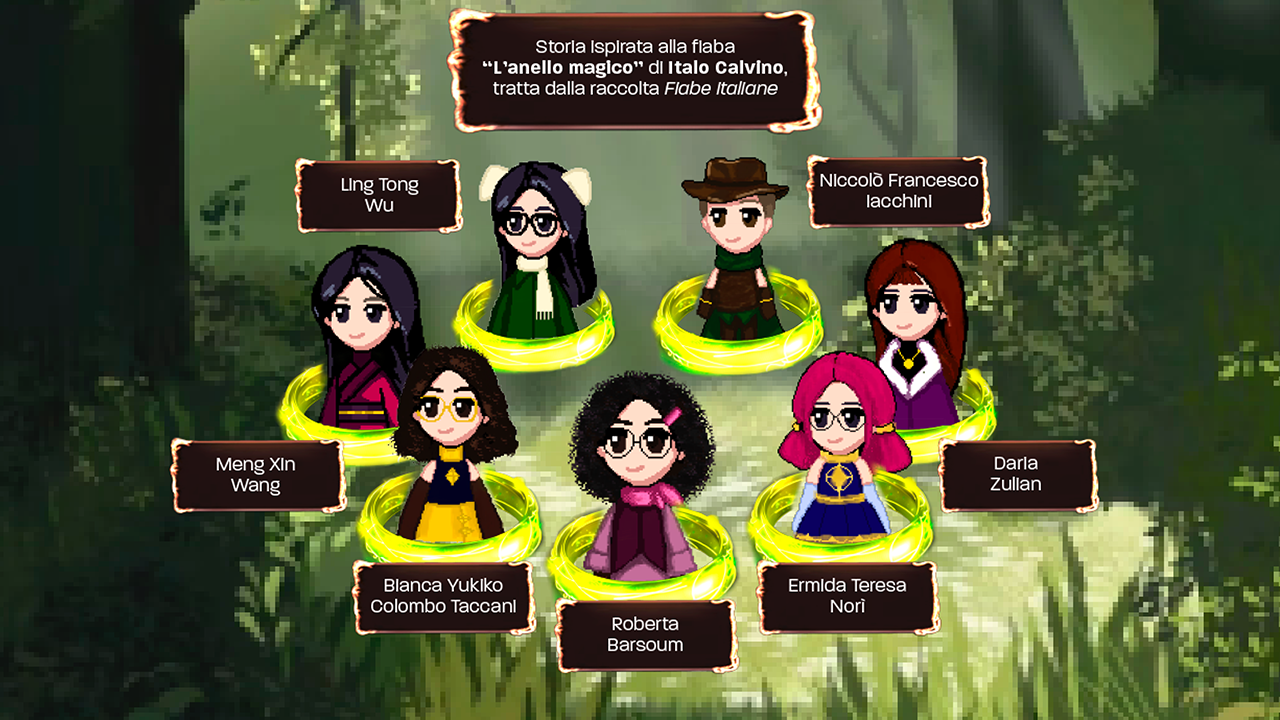
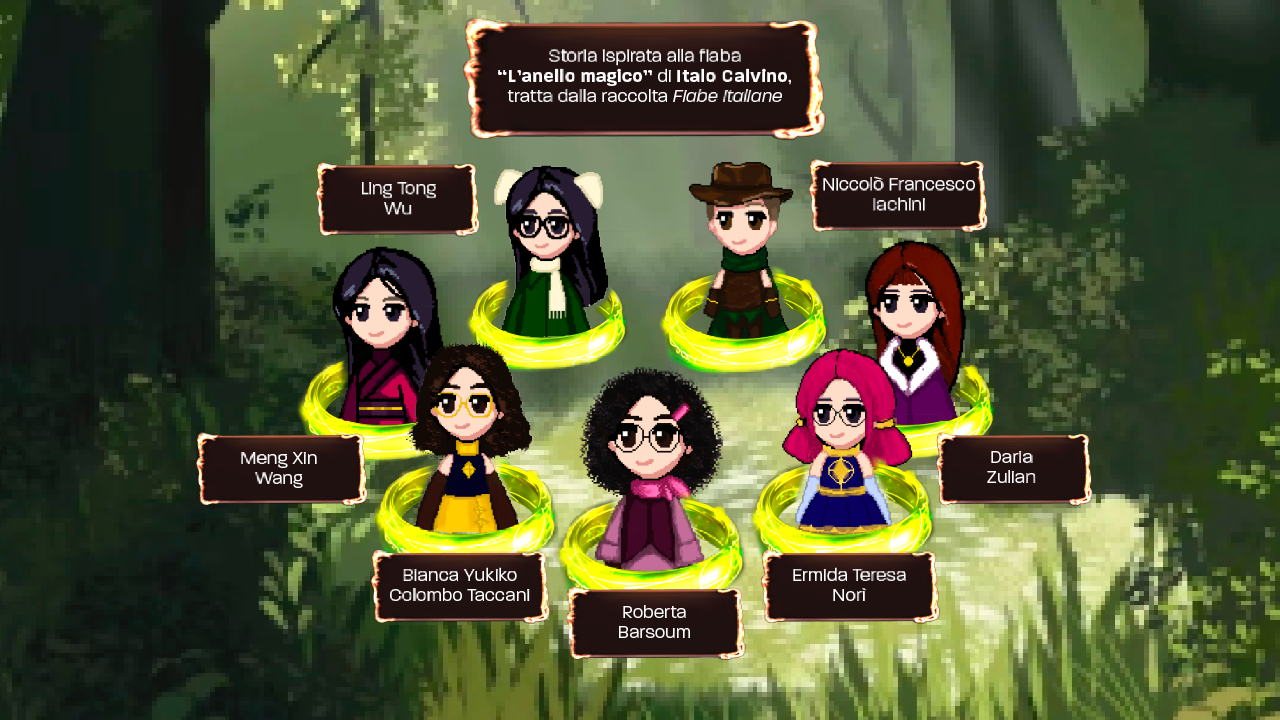
aggiunto cambiamento sfondo e dialogo topo

diff --git a/src/scenes/level2.js b/src/scenes/level2.js
@@ -1,3 +1,4 @@
+let img_background;
 let img_background_0;
 let img_background_1;
 let img_background_2;
@@ -12,6 +13,11 @@ let img_cartello_sx;
 let img_cartello_barra;
 let img_cartello_f;
 let img_topo;
+let img_background_corrotto_1;
+let img_background_corrotto_2;
+let img_background_corrotto_3;
+let img_dialogo;
+
 
 
 let floor;
@@ -28,6 +34,7 @@ let cartello_sx;
 let cartello_barra;
 let cartello_f;
 let topo;
+let ponte;
 
 let anello_1_done = false;
 let anello_2_done = false;
@@ -48,7 +55,7 @@ function preload (s) {
     preload_rocce(s);
     preload_gui (s);
 
-    img_background_0 = PP.assets.image.load(s, "assets/images/quarto_piano.png");
+    img_background = PP.assets.image.load(s, "assets/images/quarto_piano.png");
     img_background_1 = PP.assets.image.load(s, "assets/images/terzo_piano.png");
     img_background_2 = PP.assets.image.load(s, "assets/images/secondo_piano.png");
     img_background_3 = PP.assets.image.load(s, "assets/images/primo_piano.png");
@@ -60,10 +67,15 @@ function preload (s) {
     img_cartello_f = PP.assets.image.load(s, "assets/images/f.png");
     img_topo = PP.assets.image.load(s, "assets/images/topo.png");
 
+    img_background_corrotto_1 = PP.assets.image.load(s, "assets/images/terzopiano_corrotto.png");
+    img_background_corrotto_2 = PP.assets.image.load(s, "assets/images/secondopiano_corrotto.png");
+    img_background_corrotto_3 = PP.assets.image.load(s, "assets/images/primopiano_corrotto.png");
+
 
     img_player = PP.assets.sprite.load_spritesheet(s,"assets/images/protagonista_spritesheet.png", 58,108);
     img_bridge = PP.assets.image.load(s, "assets/images/bridge.png");
     img_castello = PP.assets.image.load(s, "assets/images/castello.png");
+    img_dialogo = PP.assets.image.load(s, "assets/images/dialogo.png");
     
 }
 
@@ -72,22 +84,32 @@ function create (s){
 damage_imm = false; //per resettare il flag di damage imm, ref gestione.
 
 //setup parallasse per sfondo
-    img_background_0 = PP.assets.tilesprite.add(s, img_background_0, -4000, 720, 15000, 850, 0, 1);
+    img_background_0 = PP.assets.tilesprite.add(s, img_background, -4000, 720, 15000, 850, 0, 1);
     img_background_1 = PP.assets.tilesprite.add(s, img_background_1, -4000, 720, 15000, 850, 0, 1); 
     img_background_2 = PP.assets.tilesprite.add(s, img_background_2, -4000, 800, 15000, 850, 0, 1); 
     img_background_3 = PP.assets.tilesprite.add(s, img_background_3, -4500, 900, 18000, 1500, 0, 1); 
+
+    let layer_bg_1 = PP.layers.create(s);
+    PP.layers.add_to_layer(layer_bg_1, img_background_3);
+    PP.layers.set_z_index(layer_bg_1, 0);
+
+    let layer_bg = PP.layers.create(s);
+    PP.layers.add_to_layer(layer_bg, img_background_0);
+    PP.layers.add_to_layer(layer_bg, img_background_1);
+    PP.layers.add_to_layer(layer_bg, img_background_2);
+    PP.layers.set_z_index(layer_bg, -1.2);
     
     cartello_dx = PP.assets.image.add(s, img_cartello_dx, -2190, 80, 1,1);
     cartello_sx = PP.assets.image.add(s, img_cartello_sx, -2350, 80, 1,1);
     cartello_barra = PP.assets.image.add(s, img_cartello_barra, -1580, 80, 1,1);
     cartello_f = PP.assets.image.add(s, img_cartello_f, 1344, 500, 0.5,1);
-    topo = PP.assets.image.add(s, img_topo, -2680, 80, 0.5,1);
-
+    topo = PP.assets.image.add(s, img_topo, -2670, 80, 0.5,1);
+    PP.assets.image.add(s, img_dialogo, -2680, -100, 0,1);
 
 
     //player = PP.assets.sprite.add(s, img_player, 320, 565, 0.5, 1); // VECCHIO SPAWN
     player = PP.assets.sprite.add(s, img_player, -2376, 83, 0.5, 1);  //SPAWN GIUSTO
-    //player = PP.assets.sprite.add(s, img_player, 7500, 100, 0.5, 1); //SPAWN PER TEST
+    //player = PP.assets.sprite.add(s, img_player, 3936, 100, 0.5, 1); //SPAWN PER TEST
 
     PP.physics.add(s, player, PP.physics.type.DYNAMIC); 
     PP.physics.set_collision_rectangle(player, 58, 108, 0, -15)
@@ -153,6 +175,16 @@ function update (s){
             PP.assets.destroy(rovi_2);  
             PP.assets.destroy(rovi_3);
 
+             
+            let bg_corrotto_2 = PP.assets.tilesprite.add(s, img_background_corrotto_2, 1280, 850, 1800, 850, 0, 1); 
+            bg_corrotto_2.tile_geometry.scroll_factor_x = 1.3
+
+            let layer_bg_corrotto= PP.layers.create(s);
+            PP.layers.add_to_layer(layer_bg_corrotto, bg_corrotto_2);
+            PP.layers.set_z_index(layer_bg_corrotto, -1);
+
+            
+
 
             let prev_anello = PP.game_state.get_variable("anello");
             PP.game_state.set_variable("anello", prev_anello+1);
@@ -174,11 +206,22 @@ function update (s){
             PP.assets.destroy(mobili_3);  
             PP.assets.destroy(pavimenti_8a); 
     
-            rovi_2 = PP.assets.image.add(s, img_bridge, 4640, 490, 0.5,0.5);
-            pavimenti = PP.shapes.rectangle_add(s, 4640, 490, 1152, 50, "0xAB4F0F", 0.5); 
+            ponte = PP.assets.image.add(s, img_bridge, 4640, 470, 0.5,0.5);
+            let layer_ponte= PP.layers.create(s);
+            PP.layers.add_to_layer(layer_ponte, ponte);
+            PP.layers.set_z_index(layer_ponte, 1.5);
+
+            pavimenti = PP.shapes.rectangle_add(s, 4640, 490, 1152, 50, "0xAB4F0F", 0); 
             PP.physics.add(s, pavimenti, PP.physics.type.STATIC); 
             PP.physics.add_collider_f(s, player, pavimenti, collision_pavimenti);
         
+
+            let bg_corrotto_2 = PP.assets.tilesprite.add(s, img_background_corrotto_2, 3800, 850, 3000, 850, 0, 1); 
+            bg_corrotto_2.tile_geometry.scroll_factor_x = 1.3
+
+            let layer_bg_corrotto= PP.layers.create(s);
+            PP.layers.add_to_layer(layer_bg_corrotto, bg_corrotto_2);
+            PP.layers.set_z_index(layer_bg_corrotto, -1);
 
             let prev_anello = PP.game_state.get_variable("anello");
             PP.game_state.set_variable("anello", prev_anello+1);
@@ -199,6 +242,13 @@ function update (s){
 
             PP.physics.add(s, pavimenti, PP.physics.type.STATIC); 
             PP.physics.add_collider_f(s, player, pavimenti, collision_pavimenti);  
+
+            let bg_corrotto_2 = PP.assets.tilesprite.add(s, img_background_corrotto_2, 5700, 850, 3000, 850, 0, 1); 
+            bg_corrotto_2.tile_geometry.scroll_factor_x = 1.3
+
+            let layer_bg_corrotto= PP.layers.create(s);
+            PP.layers.add_to_layer(layer_bg_corrotto, bg_corrotto_2);
+            PP.layers.set_z_index(layer_bg_corrotto, -1);
 
             let prev_anello = PP.game_state.get_variable("anello");
             PP.game_state.set_variable("anello", prev_anello+1);

diff --git a/src/mobili.js b/src/mobili.js
@@ -67,7 +67,7 @@ function update_mobili(s) {
     if(mobili_1.geometry.x >= 2240) {
         PP.physics.set_velocity_x(mobili_1, -130);
     }
-    else if(mobili_1.geometry.x <= 1600) {
+    else if(mobili_1.geometry.x <= 1550) {
         PP.physics.set_velocity_x(mobili_1, 130);
     }
 
